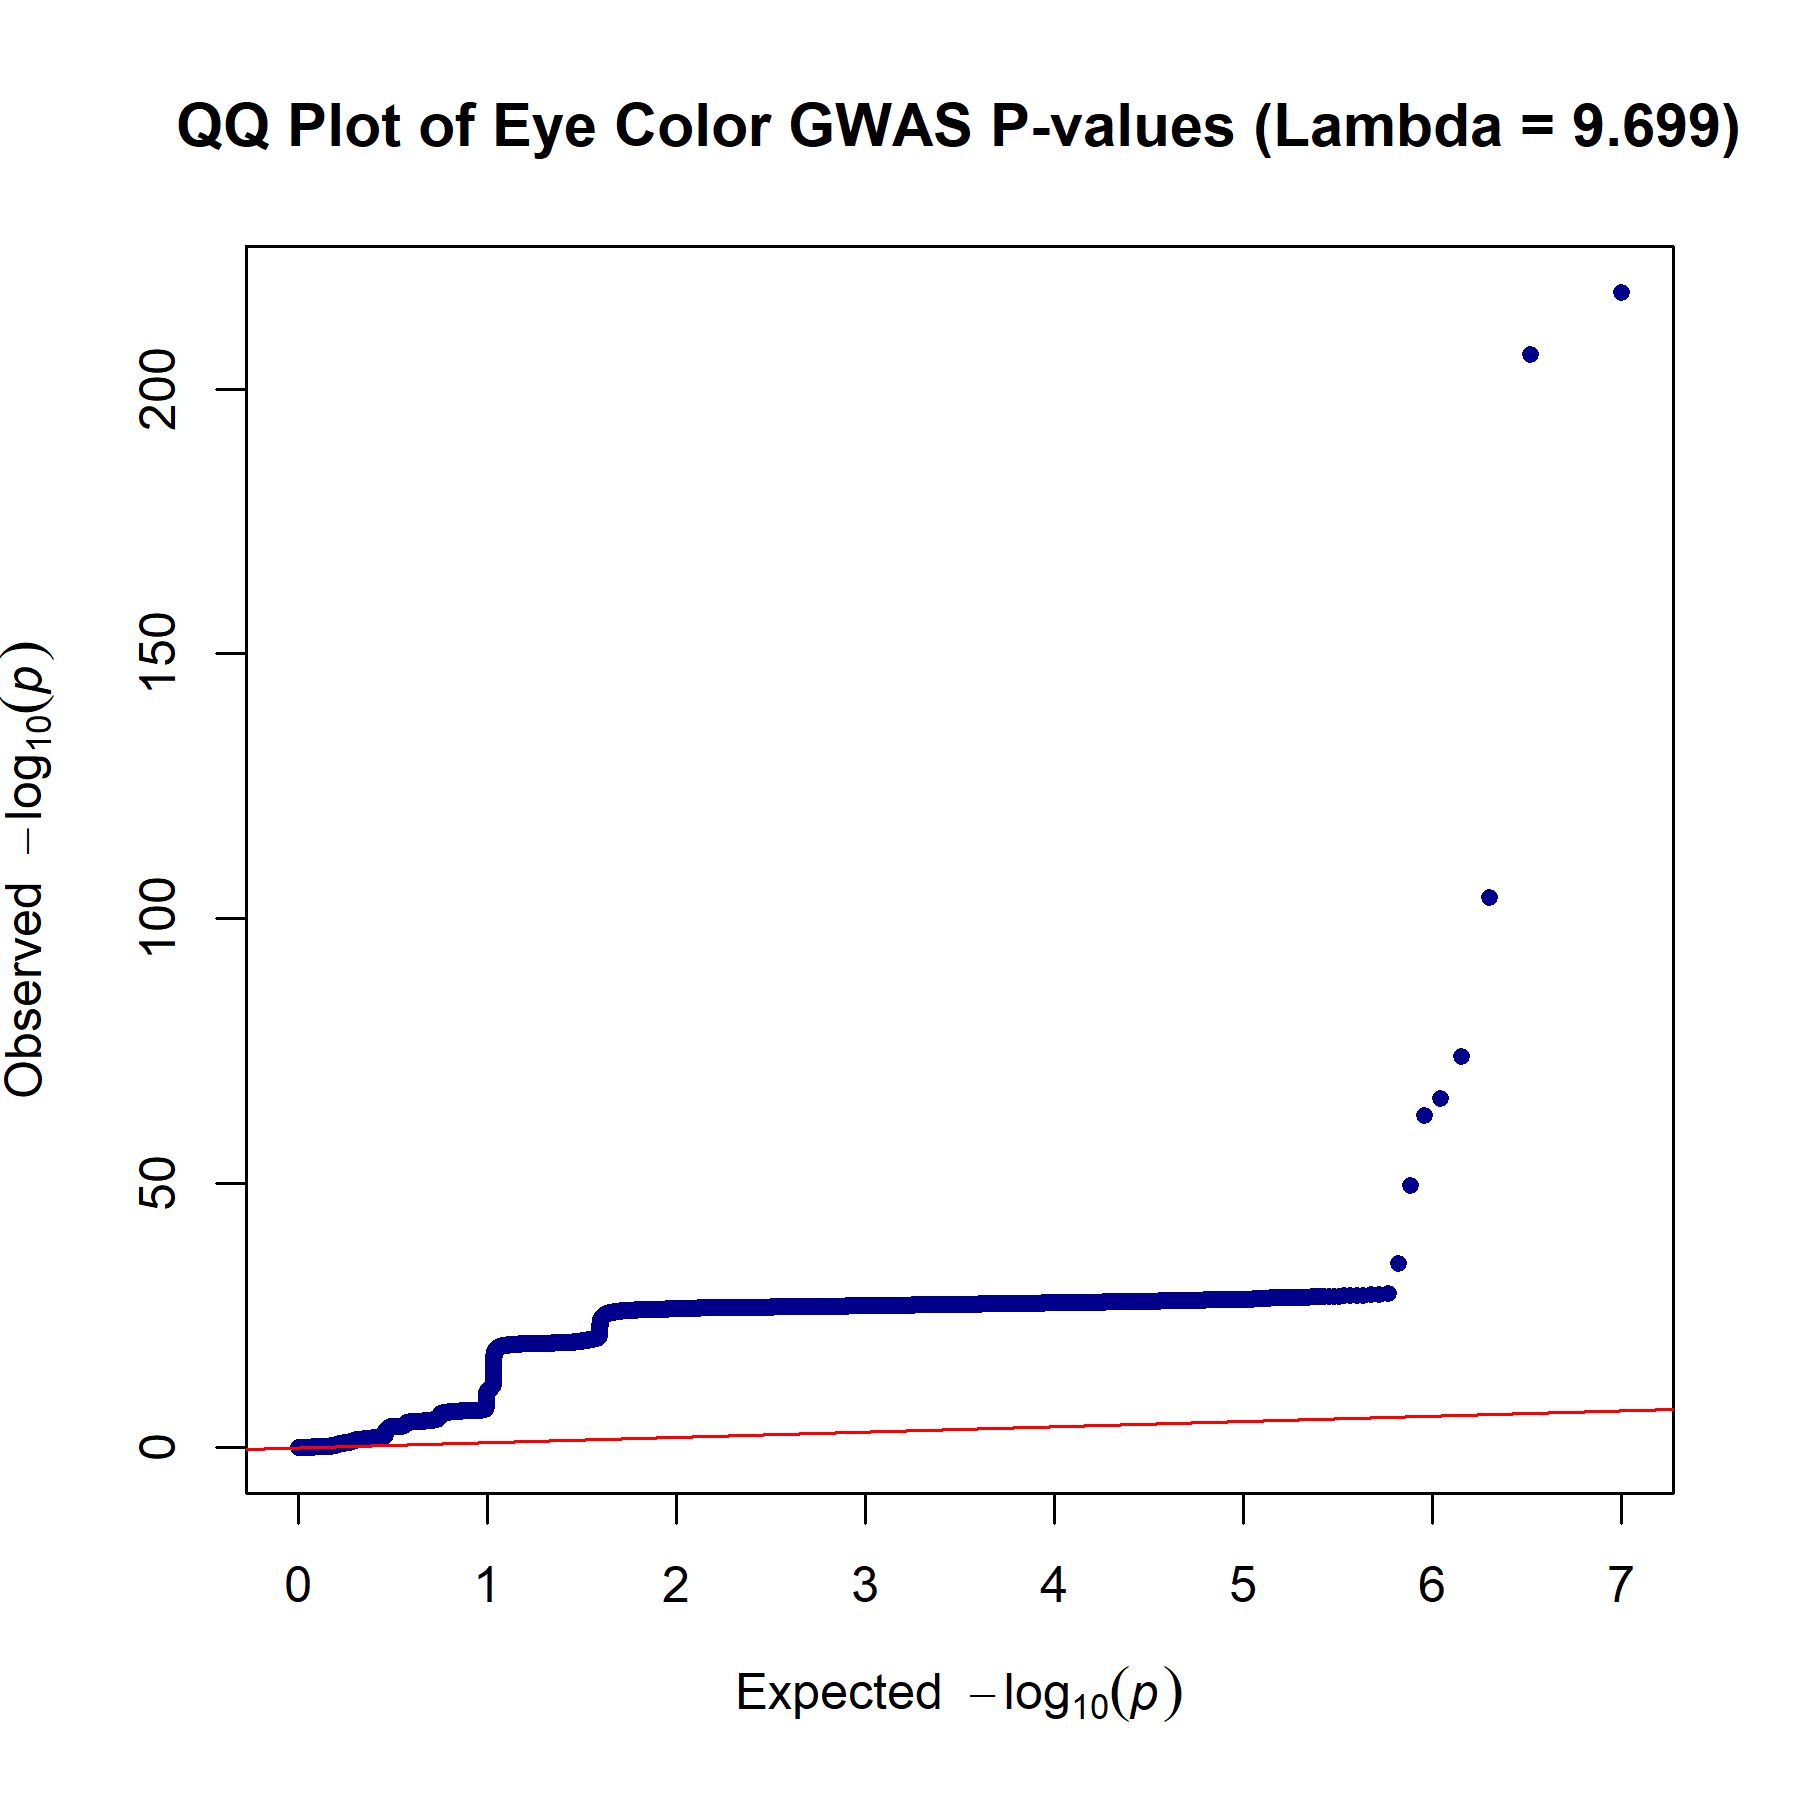
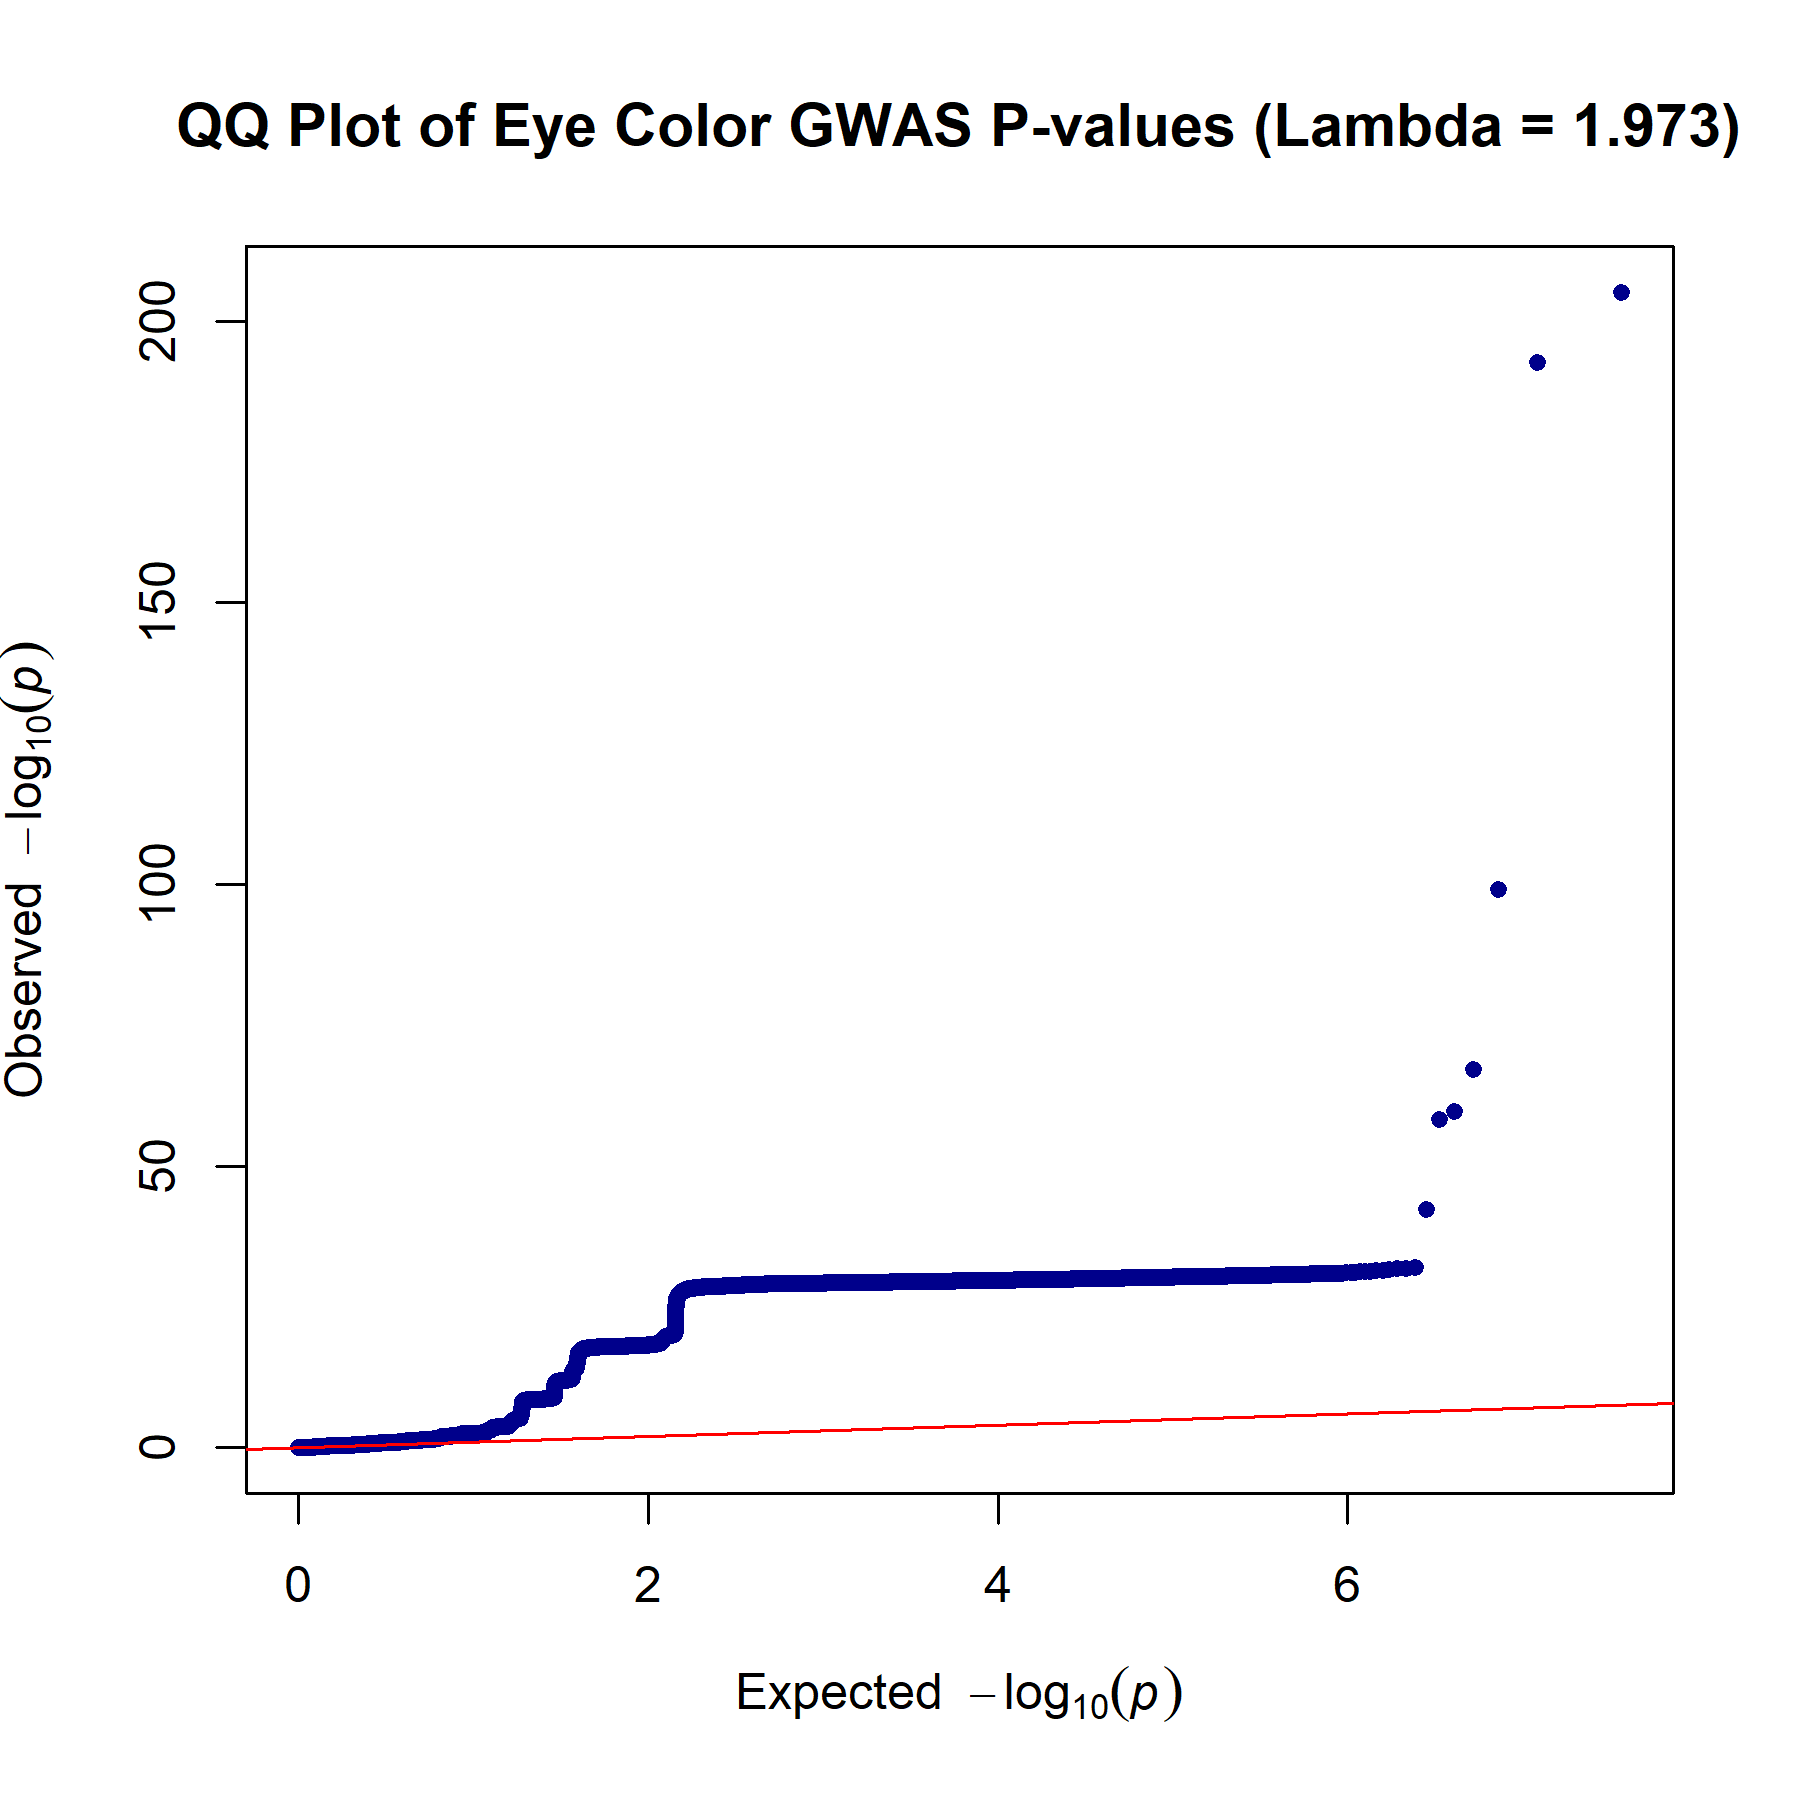
some exploration on why our QQ plot sucks. Next step is to "Restricting Analysis to a More Homogeneously Ancestral Subgroup"

diff --git a/gwas_project_v3/main_workflow.md b/gwas_project_v3/main_workflow.md
@@ -1248,5 +1248,149 @@ The additive genetic model (ADD) is tested by default for SNPs.
 --out gwas_eyecolor_linear_4pcs_sex: Specifies the prefix for the output files.
 
 
-# GWAS 4 category Quantitative Trait Linear Model visualization
+# GWAS Results Visualization: Manhattan and QQ Plots
+
+*Purpose*
+To visualize the results of the genome-wide association study (GWAS) for eye color. Two main plots will be generated:
+1.  **Manhattan Plot:** Displays the strength of association (-log10 P-value) for each SNP across the genome, organized by chromosome and position. It helps to quickly identify chromosomal regions harboring SNPs with significant associations.
+2.  **QQ (Quantile-Quantile) Plot:** Compares the observed distribution of GWAS P-values against the expected uniform distribution under the null hypothesis of no association. It helps to assess overall inflation or deflation of test statistics, which can indicate issues like uncorrected population stratification, cryptic relatedness, or other systematic biases.
+
+*Input File*
+*   `gwas_eyecolor_linear_4pcs_sex.assoc.linear`: The output file from the PLINK linear regression, containing association statistics for each SNP (CHR, SNP, BP, P, etc.).
+
+*Methodology - Plotting in R*
+
+We started by loading our data into the R script gwas_linear_result_visualizations.rmd, and generated a QQ plot, our lamda and a Manhattan plot.
+
+*Discussion*
+
+When we visualized our resluts, and calculated our initial lamda, we already could see problems. With a lambda of almost 10, an unreadable QQ plot and a Manhattan plot with only one hit, we already know that something is causing problems. 
+
+The high lambda would, under normal circumstances, cause many peaks or hits to manifest on a Manhattan plot. However, when visualizing our data on a manhattan plot, we only had one hit/peak. This is often called the "winner takes it all" effect, and is usually caused by Extreme Stratification for a Highly Differentiated Trait. Eye color is a trait with extremely strong genetic differentiation that aligns with major ancestral populations (e.g., HERC2/OCA2 variants are at very different frequencies in European vs. African vs. East Asian populations).
+
+The hit in the Manhattan plot is actually a pretty big indicator of what went wrong. The hit is located on chromosome 15, which contains the HERC2/OCA2 region. The variants on this locus are major determinants of blue vs. brown eyes and have vastly different frequencies across global populations. Thus, this is an indicate that we have not correctly controlled for population stratification. 
+
+So, our next step is essentually to try and better control for population stratification.
+
+
+
+# Addressing Population Stratification in GWAS
+
+*Purpose*
+The initial GWAS run (using 4 PCs + sex as covariates) revealed severe genomic inflation (Lambda ≈ 9.7), as evidenced by the QQ plot. This indicates that population stratification is not adequately controlled. The following steps aim to improve stratification control by including more principal components (PCs) in the regression model.
+
+*Underlying Theory*
+Population stratification occurs when allele frequencies and phenotype distributions differ systematically across underlying ancestral subgroups within the study sample. If not accounted for, SNPs that are merely markers of ancestry (rather than being causally related to the trait) can show spurious associations. Principal Components (PCs) derived from genome-wide SNP data capture major axes of genetic variation, which often correspond to ancestral differences. Including these PCs as covariates in the GWAS regression model statistically adjusts for these broad ancestral effects, reducing false positives due to stratification. The goal is to include enough PCs to capture the relevant population structure that correlates with the trait, thereby reducing the genomic inflation factor (lambda) to an acceptable level (ideally close to 1.0).
+
+*Methodology - Iterative GWAS with Increased PCs*
+
+We will re-run the GWAS, systematically increasing the number of PCs used as covariates, and monitor the lambda value after each run. The PCs are taken from the `final_pca_results_no_outliers.eigenvec` file (which contains up to 10 PCs for the 1196 individuals who passed all QC prior to the GWAS run).
+
+**Key Files (already prepared or used previously):**
+*   **Genotypes:** `final_analysis_cohort_hwe_filtered.bed/bim/fam` (1196 individuals, 949,579 SNPs)
+*   **Phenotypes (Subsetted):** `gwas_pheno_1196.txt` (1196 individuals, created in previous R step)
+*   **Full PCA Eigenvectors:** `final_pca_results_no_outliers.eigenvec` (1196 individuals, 10 PCs)
+*   **FAM file for Sex:** `final_analysis_cohort_hwe_filtered.fam` (1196 individuals)
+
+**Step 1: Prepare New Covariate Files with More PCs (Using R)**
+
+We will create covariate files for, e.g., 10 PCs + Sex. We might also consider trying 6, 8, 15, or 20 PCs if needed, based on your scree plot and the results of these iterations. We did this in R, with some simple commands and data filtering. The new file being used as covariates is *gwas_covariates_10pcs_sex_1194.txt*
+
+
+**Step 2: Re-run GWAS with 10 PCs + Sex**
+
+PLINK Command:
+
+plink --bfile final_analysis_cohort_hwe_filtered \
+      --pheno gwas_pheno_1196.txt \
+      --covar gwas_covariates_10pcs_sex_1194.txt \
+      --linear \
+      --allow-no-sex \
+      --out gwas_eyecolor_linear_10pcs_sex
+
+*Action:* Note the new output prefix gwas_eyecolor_linear_10pcs_sex.
+
+**Step 3: Evaluate Lambda and QQ Plot for the New Results**
+
+Use the R script previously provided for visualization, but point it to the new results file:
+gwas_results_file <- "gwas_eyecolor_linear_10pcs_sex.assoc.linear"
+
+Using 10 PCs instead of 4, we see a drastic inprovement in our lambda (now 2.811), however, our QQ plot essentially looks unchanged. We will try using more PCs to see if that yields a positiver result, if not, we have to move on to a different approach. 
+
+However, turns out that we are using the wrong PC data as our covariates. The PCA data was calculated before the final filtering of related individuals, which means that they *might* be pulling/effecting the way the PCs are supposed to correct our data when they act as covariates. So before anything, we should try and recalculate the PCAs, this time 30 of them, then do the GWAS again and see if that has an effect. 
+
+# Addressing Population Stratification in GWAS (Revised Approach)
+
+*Purpose*
+The initial GWAS runs (using 4 and subsequently 10 PCs + sex as covariates) revealed severe and persistent genomic inflation (Lambda remaining high, e.g., 2.811 with 10 PCs), with a QQ plot shape indicative of uncontrolled population stratification. A critical review revealed that the Principal Components (PCs) used were derived from a cohort of 1412 individuals (post-PCA outlier removal but pre-relatedness filtering), while the GWAS was performed on a subsequent cohort of 1196 individuals (after relatedness filtering). Using PCs derived from a different sample set than the analysis set is suboptimal for stratification control.
+
+The following steps aim to:
+1.  Generate new PCs based on the correct final set of 1196 unrelated individuals.
+2.  Use an appropriate number of these new PCs to control for population stratification.
+3.  Re-run the GWAS and evaluate inflation.
+
+*Underlying Theory*
+Principal Components (PCs) must be calculated on the specific set of (preferably unrelated) individuals included in the association analysis to accurately capture and correct for population structure within that cohort. Using PCs from a different or larger ancestral pool can lead to incomplete or inappropriate adjustment.
+
+*Methodology - Generating Correct PCs and Iterative GWAS*
+
+**Key Files:**
+*   **Current Genotype Dataset for GWAS (but PCs need re-derivation):** `final_analysis_cohort_hwe_filtered.bed/bim/fam` (1196 individuals, 949,579 SNPs). This is the dataset *after* relatedness removal and all SNP QC (MAF, HWE).
+*   **Phenotypes (Subsetted for 1196):** `gwas_pheno_1196.txt`
+*   **FAM file for Sex (for 1196):** `final_analysis_cohort_hwe_filtered.fam`
+
+**Step 1: Prepare an LD-Pruned Dataset for the Correct 1196 Individuals**
+
+The dataset `final_analysis_cohort_hwe_filtered` contains all SNPs. For PCA, we need an LD-pruned version of *these 1196 individuals*.
+
+Input: final_analysis_cohort_hwe_filtered (1196 individuals, ~950k SNPs)
+
+1a. Exclude known high-LD regions
+
+plink --bfile final_analysis_cohort_hwe_filtered \
+      --exclude range high_ld_regions_exclude.txt \
+      --make-bed \
+      --out gwas_1196_ldregions_excluded
+
+1b. Perform window-based LD pruning
+
+plink --bfile gwas_1196_ldregions_excluded \
+      --indep-pairwise 50 5 0.2 \
+      --out gwas_1196_pruning_results
+
+plink --bfile gwas_1196_ldregions_excluded \
+      --extract gwas_1196_pruning_results.prune.in \
+      --make-bed \
+      --out gwas_1196_final_ld_pruned_for_pca
+
+Output: gwas_1196_final_ld_pruned_for_pca.bed/bim/fam. This file now contains the 1196 individuals and an LD-pruned set of SNPs derived specifically from them. Note the number of SNPs remaining.
+
+**Step 2: Re-calculate PCA on the Correct LD-Pruned 1196-Individual Dataset (Generate e.g., 30 PCs)**
+
+plink --bfile gwas_1196_final_ld_pruned_for_pca \
+      --pca 30 \
+      --out gwas_1196_pca_30pcs
+
+Outputs: gwas_1196_pca_30pcs.eigenvec (PCs for 1196 individuals) and gwas_1196_pca_30pcs.eigenval.
+
+**Step 3: Create a New Scree Plot (up to 30 PCs for the 1196 Individuals)**
+
+Use R with gwas_1196_pca_30pcs.eigenval to visualize variance explained. Examine this scree plot carefully to decide how many PCs (N_new_pcs) to test as covariates (e.g., start with 10, then try 15, 20 based on this plot). We chose 7.
+
+**Step 4: Prepare New Covariate File (using N_NEW_PCS_TO_TRY from gwas_1196_pca_30pcs.eigenvec + Sex)**
+
+Useing our covariate_creation_for_popstrat R script, we made a new file using that would be used as covariates, from the 7 PCs chosen plus sex. The output file is gwas_covariates_7pcs_sex_1194.txt
+
+**Step 5: Re-run GWAS with the Corrected and Potentially Increased Number of PCs + Sex**
+
+plink --bfile final_analysis_cohort_hwe_filtered \
+      --pheno gwas_pheno_1196.txt \
+      --covar gwas_covariates_7pcs_sex_1194.txt \
+      --linear \
+      --allow-no-sex \
+      --out gwas_eyecolor_linear_correct_7pcs_sex
+
+**Step 6: Evaluate Lambda and QQ Plot (Iteratively)**
+
+Using our gwas_linear_result_visualizations.rmd we will visualize the QQ plot again and calculate our lambda
 
